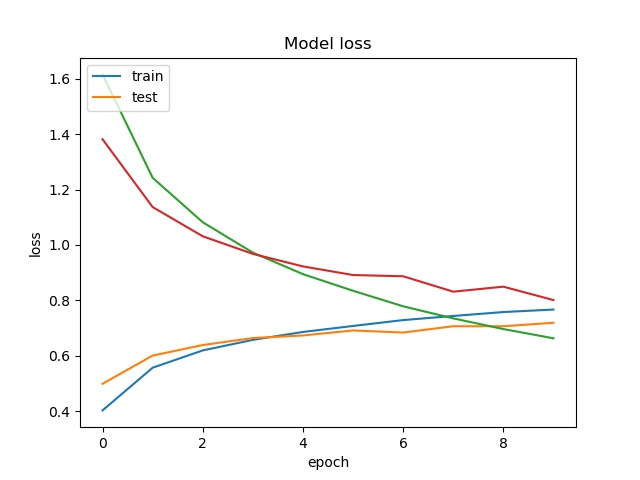
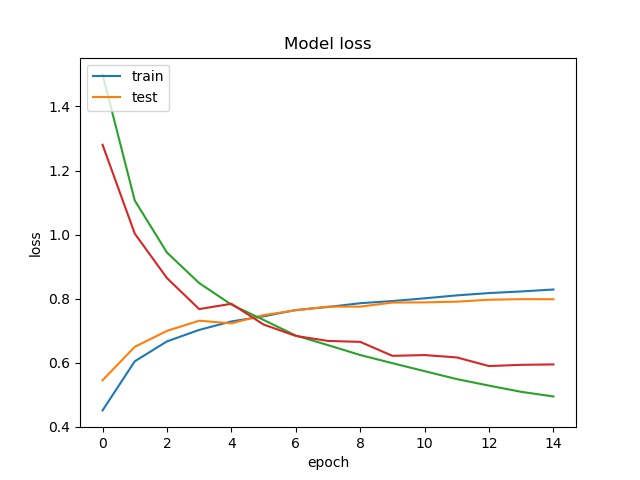
add ct_net, acc 80%

diff --git a/src/model/vgg_bn.py b/src/model/vgg_bn.py
@@ -5,9 +5,11 @@ from keras.layers.normalization import BatchNormalization
 from keras.models import Sequential
 from keras.layers import Flatten, Dense, Dropout, Lambda
 from keras.layers import Conv2D, MaxPooling2D, ZeroPadding2D, AveragePooling2D
+from keras.layers import Activation
 from keras.optimizers import Adam
 from keras.preprocessing.image import ImageDataGenerator
 from keras.layers.normalization import BatchNormalization
+from keras.layers.pooling import GlobalAveragePooling2D
 from keras import initializers
 from keras.callbacks import Callback, TensorBoard
 import tensorflow as tf
@@ -18,11 +20,14 @@ np.random.seed(1337)  # for reproducibility
 THREADS_NUM = 3
 tf.ConfigProto(intra_op_parallelism_threads=THREADS_NUM)
 
-vgg_mean = np.array([123.68, 116.779, 103.939], dtype=np.float32).reshape((3,1,1))
-# vgg_mean = np.array([123.68, 116.779, 103.939], dtype=np.float32)
+# vgg_mean = np.array([123.68, 116.779, 103.939], dtype=np.float32).reshape((3, 1, 1))
+vgg_mean = np.array([125.307, 122.950, 113.865], dtype=np.float32).reshape((3, 1, 1))
+
 def vgg_preprocess(x):
-    # x = x - vgg_mean
-    return x[:, ::-1] # reverse axis rgb->bgr
+    x = x - vgg_mean
+    # x -= np.mean(x, axis=0)  # zero-center
+    # x /= np.std(x, axis=0)  # normalize
+    return x[:, ::-1]  # reverse axis rgb->bgr
 
 
 class Vgg16BN():
@@ -30,7 +35,6 @@ class Vgg16BN():
 
     def __init__(self, size=(32, 32), n_classes=10, lr=0.001, batch_size=64):
         self.path = 'D:/Project/cifar/cifar10/'
-        self.weights_file = self.path+'vgg16_bn.h5'  # download from: http://www.platform.ai/models/
         self.size = size
         self.n_classes = n_classes
         self.lr = lr
@@ -40,8 +44,10 @@ class Vgg16BN():
         # self.build_simple_net()
         # self.build_net_78()
         # self.build_net_84()
-        self.build_Seenta_net()
+        # self.build_Seenta_net()
+        self.build_CT_net()  # Seenta_net上添加全局pooling
 
+        self.weights_file = self.path + 'vgg16_bn.h5'  # download from: http://www.platform.ai/models/
         self.save_model()
 
     def load_weights(self, weight_file, sess):
@@ -209,6 +215,7 @@ class Vgg16BN():
         """
         model = self.model = Sequential()
         print("initial shape {0}".format((3,) + self.size))
+        dr1 = 0.2
 
         model.add(Lambda(vgg_preprocess, input_shape=(3,) + self.size))
 
@@ -216,22 +223,93 @@ class Vgg16BN():
         model.add(Conv2D(32, (5, 5), activation='relu', kernel_initializer=initializers.Orthogonal()))
         model.add(MaxPooling2D(pool_size=(3, 3), strides=(2, 2)))
         model.add(BatchNormalization())
+        # model.add(Dropout(dr1))
         # print(model.summary())
 
         model.add(ZeroPadding2D((2, 2)))
         model.add(Conv2D(32, (5, 5), activation='relu', kernel_initializer=initializers.Orthogonal()))
         model.add(AveragePooling2D(pool_size=(3, 3), strides=(2, 2)))
         model.add(BatchNormalization())
+        # model.add(Dropout(dr1))
         # print(model.summary())
 
         model.add(ZeroPadding2D((2, 2)))
         model.add(Conv2D(64, (5, 5), activation='relu', kernel_initializer=initializers.Orthogonal()))
         model.add(AveragePooling2D(pool_size=(3, 3), strides=(2, 2)))
         model.add(BatchNormalization())
+        # model.add(Dropout(dr1))
         # print(model.summary())
 
         model.add(Flatten())
         model.add(Dense(64, activation='relu', kernel_initializer=initializers.Orthogonal()))
+        model.add(Dropout(dr1))
+        # model.add(BatchNormalization())
+        model.add(Dense(self.n_classes, activation='softmax', kernel_initializer=initializers.Orthogonal()))
+        print(model.summary())
+
+        # if ft:
+        #     self.finetune()
+
+        self.compile()
+
+    def build_CT_net(self):
+        """
+        可用的initialization方法：random_normal(stddev=0.0001), Orthogonal(), glorot_uniform(), lecun_uniform()
+        :return:
+        """
+        model = self.model = Sequential()
+        print("initial shape {0}".format((3,) + self.size))
+        dr1 = 0.2
+
+        model.add(Lambda(vgg_preprocess, input_shape=(3,) + self.size))
+
+        # model.add(Conv2D(32, (5, 5), padding='same', kernel_initializer=initializers.Orthogonal()))
+        model.add(Conv2D(32, (3, 3), padding='same', kernel_initializer=initializers.Orthogonal()))
+        model.add(Conv2D(32, (3, 3), padding='same', kernel_initializer=initializers.Orthogonal()))
+        model.add(BatchNormalization())
+        model.add(Activation('relu'))
+        model.add(MaxPooling2D(pool_size=(3, 3), strides=(2, 2)))
+        # model.add(MaxPooling2D(pool_size=(2, 2)))
+        # model.add(Dropout(dr1))
+
+        # model.add(Conv2D(32, (5, 5), padding='same', kernel_initializer=initializers.Orthogonal()))
+        model.add(Conv2D(32, (3, 3), padding='same', kernel_initializer=initializers.Orthogonal()))
+        model.add(Conv2D(32, (3, 3), padding='same', kernel_initializer=initializers.Orthogonal()))
+        model.add(BatchNormalization())
+        model.add(Activation('relu'))
+        model.add(AveragePooling2D(pool_size=(3, 3), strides=(2, 2)))
+        # model.add(MaxPooling2D(pool_size=(2, 2)))
+        # print(model.summary())
+
+        # model.add(Conv2D(64, (5, 5), padding='same', kernel_initializer=initializers.Orthogonal()))
+        model.add(Conv2D(64, (3, 3), padding='same', kernel_initializer=initializers.Orthogonal()))
+        model.add(Conv2D(64, (3, 3), padding='same', kernel_initializer=initializers.Orthogonal()))
+        model.add(BatchNormalization())
+        model.add(Activation('relu'))
+        model.add(AveragePooling2D(pool_size=(3, 3), strides=(2, 2)))
+        # model.add(MaxPooling2D(pool_size=(2, 2)))
+        # print(model.summary())
+
+        # model.add(Conv2D(192, (5, 5), padding='same', kernel_regularizer=keras.regularizers.l2(weight_decay),
+        #                  kernel_initializer="he_normal", input_shape=x_train.shape[1:]))
+        # model.add(BatchNormalization())
+        # model.add(Activation('relu'))
+        # model.add(Conv2D(160, (1, 1), padding='same', kernel_regularizer=keras.regularizers.l2(weight_decay),
+        #                  kernel_initializer="he_normal"))
+        # model.add(BatchNormalization())
+        # model.add(Activation('relu'))
+        # model.add(Conv2D(96, (1, 1), padding='same', kernel_regularizer=keras.regularizers.l2(weight_decay),
+        #                  kernel_initializer="he_normal"))
+        # model.add(BatchNormalization())
+        # model.add(Activation('relu'))
+        # model.add(MaxPooling2D(pool_size=(3, 3), strides=(2, 2), padding='same'))
+        # model.add(Dropout(dr1))
+        # model.add(GlobalAveragePooling2D())
+        # model.add(Activation('softmax'))
+
+        model.add(Flatten())
+        model.add(Dense(64, activation='relu', kernel_initializer=initializers.Orthogonal()))
+        model.add(Dropout(dr1))
         # model.add(BatchNormalization())
         model.add(Dense(self.n_classes, activation='softmax', kernel_initializer=initializers.Orthogonal()))
         print(model.summary())

diff --git a/src/model/train.py b/src/model/train.py
@@ -13,6 +13,7 @@ import os
 import numpy as np
 
 from glob import glob
+from time import sleep
 from shutil import copyfile
 from src.model.vgg_bn import Vgg16BN
 from src.data.data import read_data
@@ -72,8 +73,10 @@ class BatchTensorBoard(TensorBoard):
 
 def data_preprocess(x_train, y_train, x_test, y_test):
     # zero-scale for image
-    x_train = x_train.astype('float32') / 255
-    x_test = x_test.astype('float32') / 255
+    # x_train = x_train.astype('float32') / 255
+    # x_test = x_test.astype('float32') / 255
+    x_train = x_train.astype('float32')
+    x_test = x_test.astype('float32')
 
     # Convert class vectors to binary class matrices.
     y_train = to_categorical(y_train, n_classes)
@@ -112,7 +115,7 @@ submission_path = path + 'submissions/sub.csv'
 
 # coefficient
 n_classes = 10
-nb_epoch = 10
+nb_epoch = 15
 batch_size = 64
 nb_aug = 5
 lr = 0.001
@@ -126,6 +129,7 @@ img_width, img_height = 32, 32
 
 # data pre-process, include scale, categorical etc.
 x_train, y_train, x_test, y_test = data_preprocess(x_train, y_train, x_test, y_test)
+x_mean = np.mean(np.mean(np.mean(x_train, axis=0), axis=1), axis=1)
 
 # get model structure
 vgg = Vgg16BN(size=(img_width, img_height), n_classes=n_classes, batch_size=batch_size, lr=lr)
@@ -136,12 +140,15 @@ info_string = "{0}x{1}_{2}epoch_{3}aug_vgg16-bn".format(img_width, img_height, n
 ckpt_fn = model_path + '{val_loss:.2f}-loss_' + info_string + '.h5'
 
 ckpt = ModelCheckpoint(filepath=ckpt_fn, monitor='val_loss', save_best_only=True, save_weights_only=True)
+#将loss ，acc， val_loss ,val_acc记录tensorboard
+tensorboard = TensorBoard(log_dir=log_path, histogram_freq=1,write_graph=True, batch_size=batch_size)
+
 tensorboard = TensorBoard(log_dir='/home/tensorflow/log/softmax/epoch')
 my_tensorboard = BatchTensorBoard(log_dir='/home/tensorflow/log/softmax/batch')
 
 
 early_stopping = EarlyStopping(monitor='val_loss', patience=2)
-history = vgg.model.fit(x=x_train, y=y_train, batch_size=batch_size, epochs=nb_epoch, verbose=1, validation_data=(x_test, y_test), callbacks=[ckpt])
+history = vgg.model.fit(x=x_train, y=y_train, batch_size=batch_size, epochs=nb_epoch, verbose=1, validation_data=(x_test, y_test), callbacks=[tensorboard])
 # history = vgg.model.fit(x=x_train, y=y_train, batch_size=batch_size, epochs=nb_epoch, verbose=1, validation_data=(x_test, y_test), callbacks=[tensorboard, my_tensorboard])
 
 score = vgg.model.evaluate(x_test, y_test, verbose=1)
